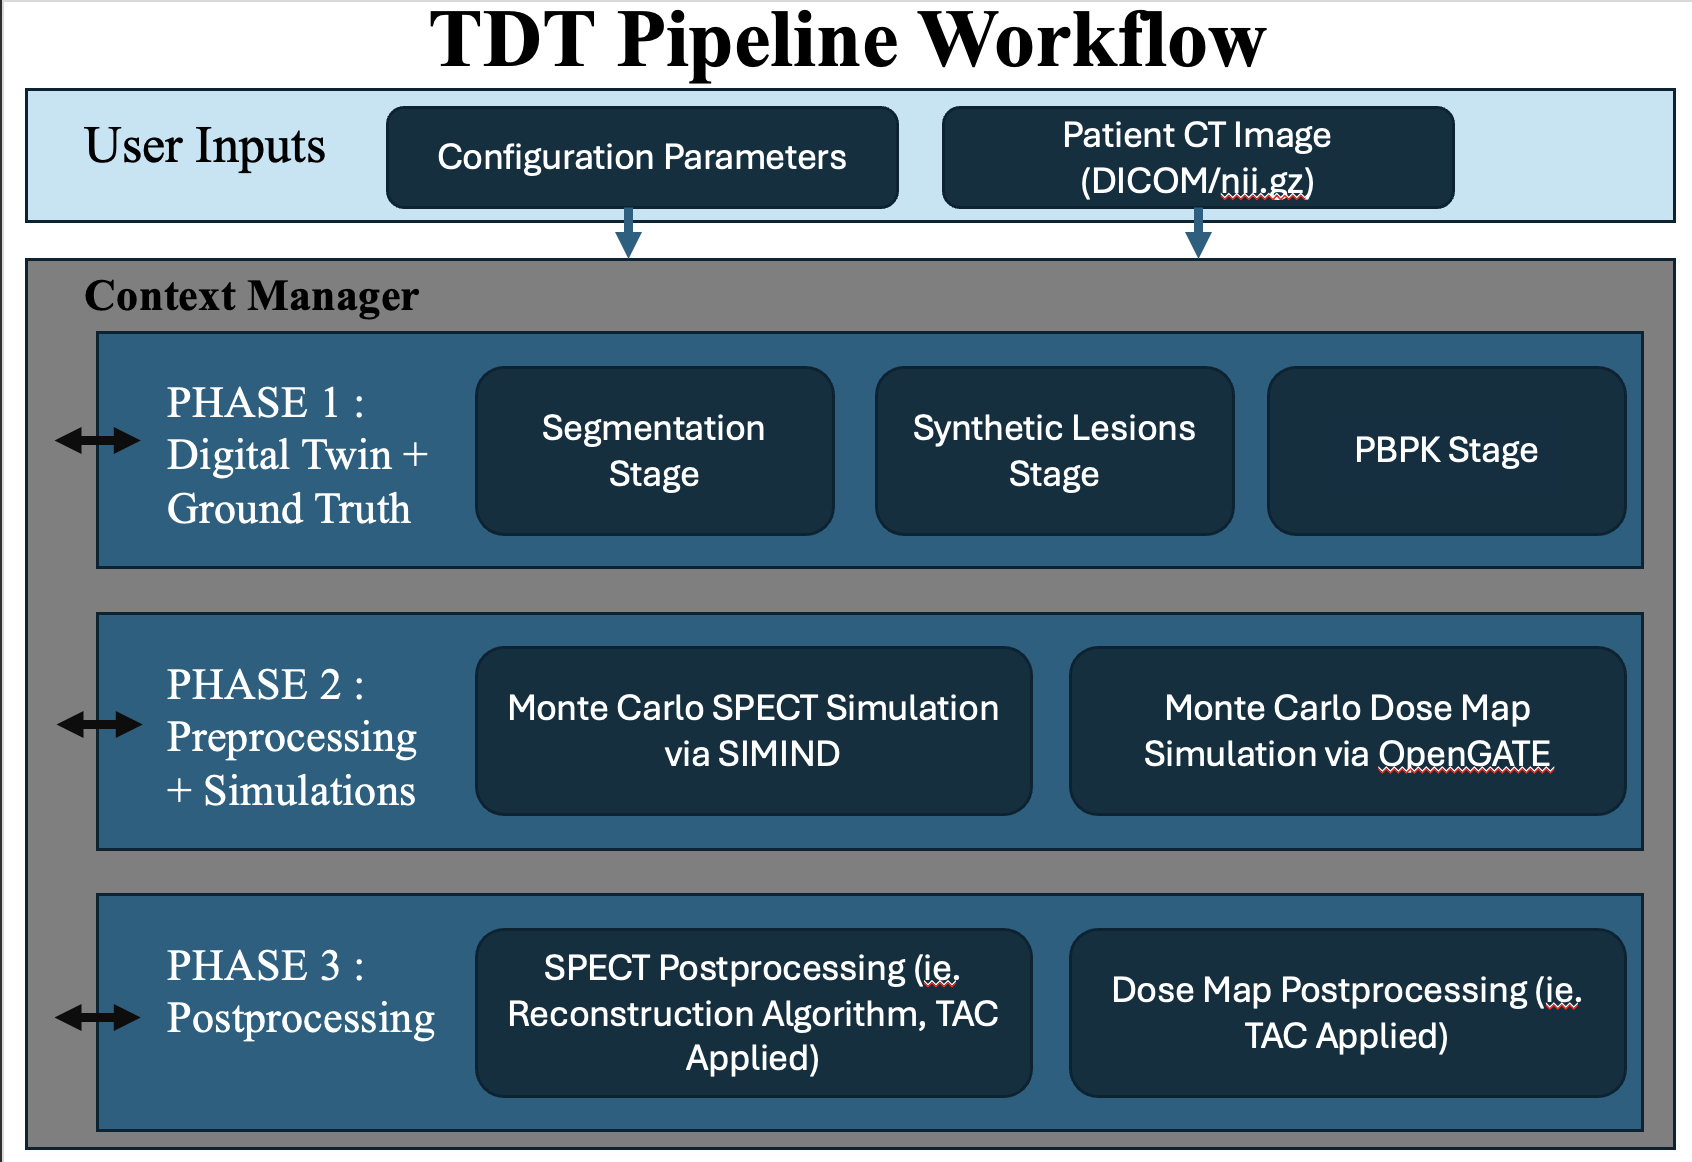
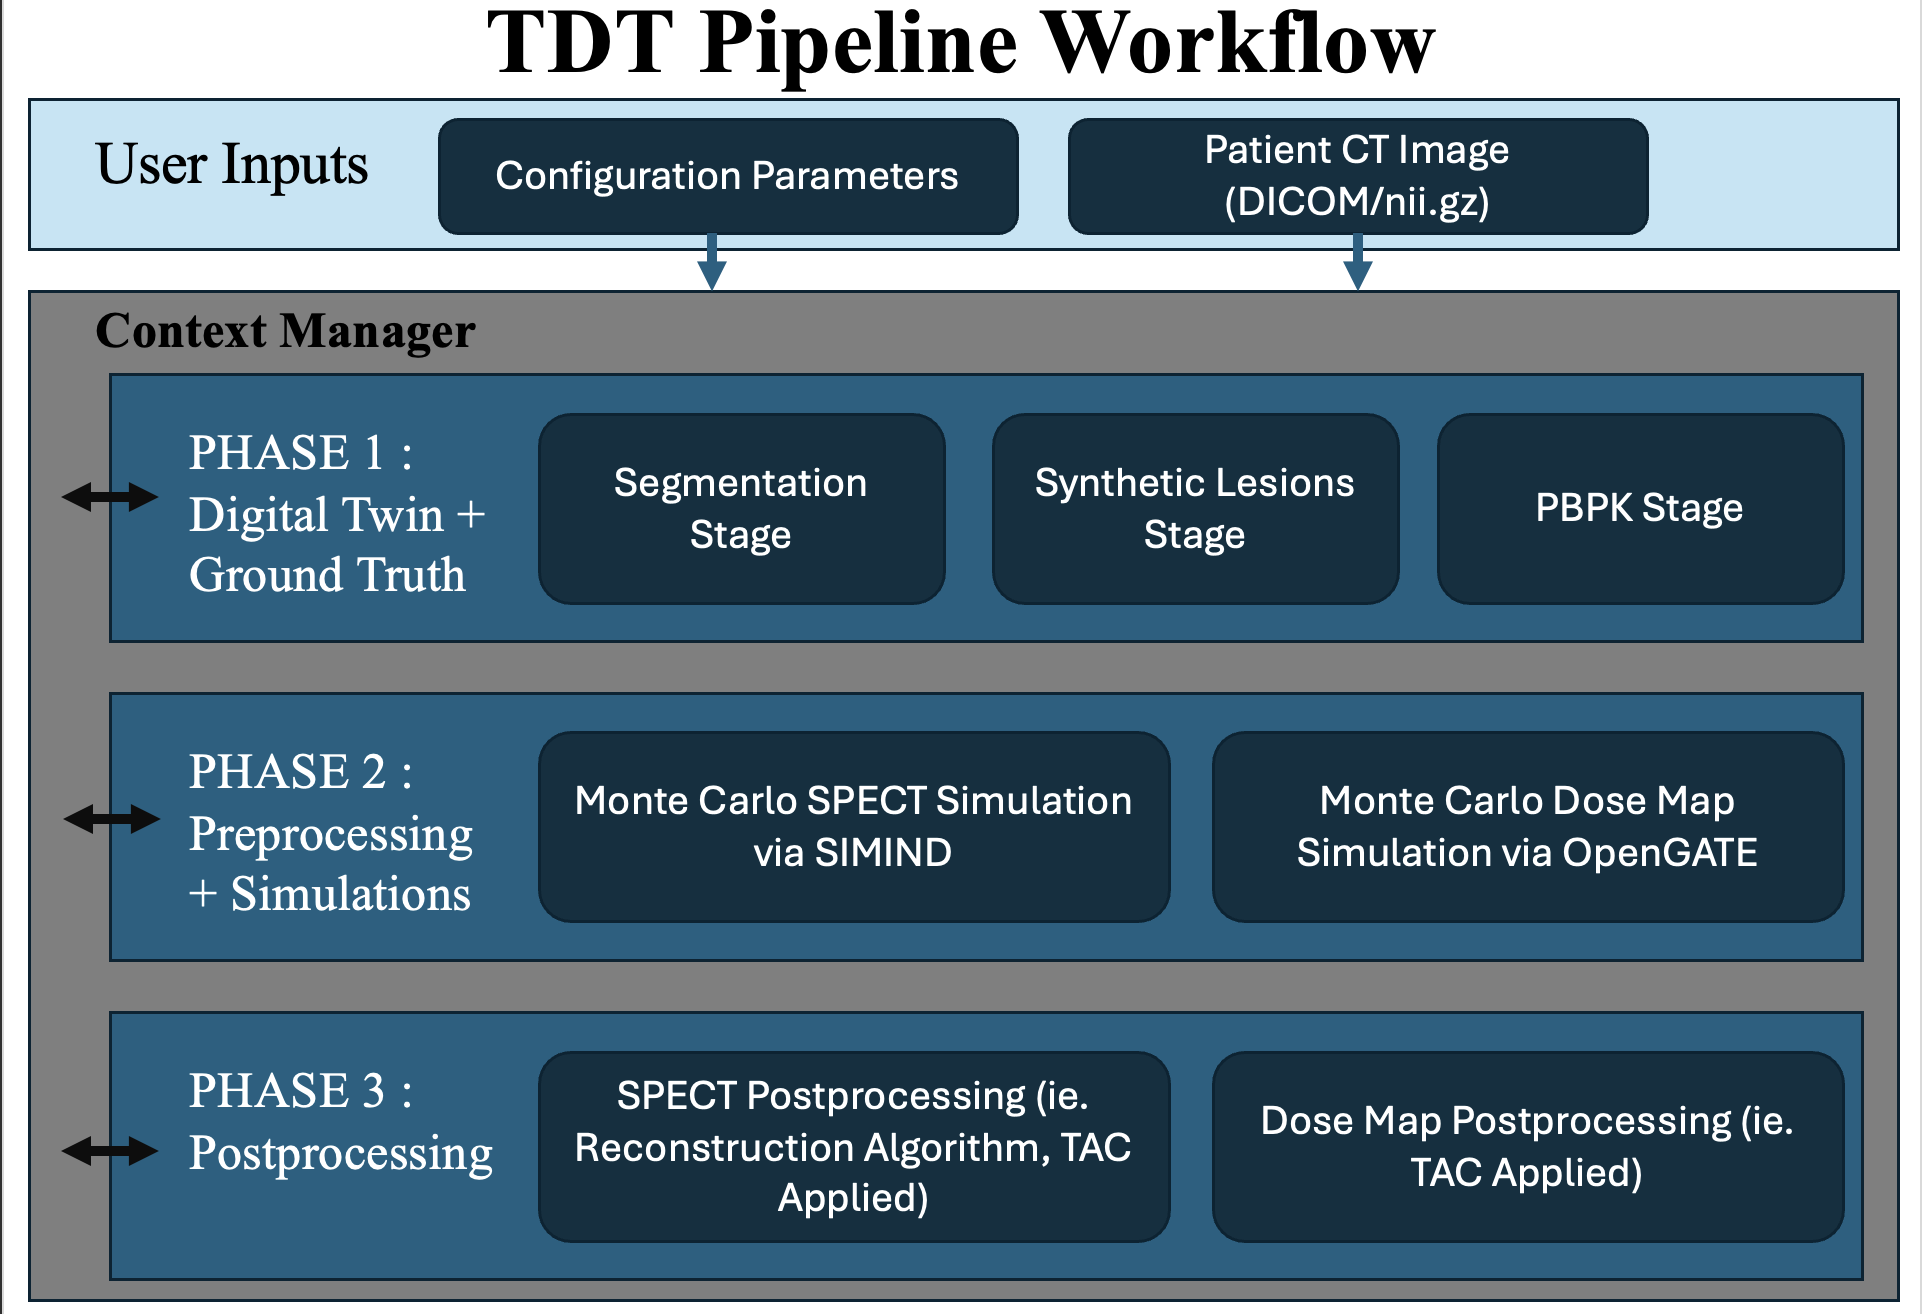
m

diff --git a/README.md b/README.md
@@ -1,4 +1,4 @@
-# Theranostic Digital Twins (TDT) Pipeline
+# Virtual Theranostic Trials (CTT) Pipeline
 
 This pipeline creates patient-specific **theranostic digital twins** by combining CT-based anatomy/segmentation with PBPK kinetics and physics-based SPECT simulation/reconstruction, supporting research in diagnosis and therapy planning.
 
